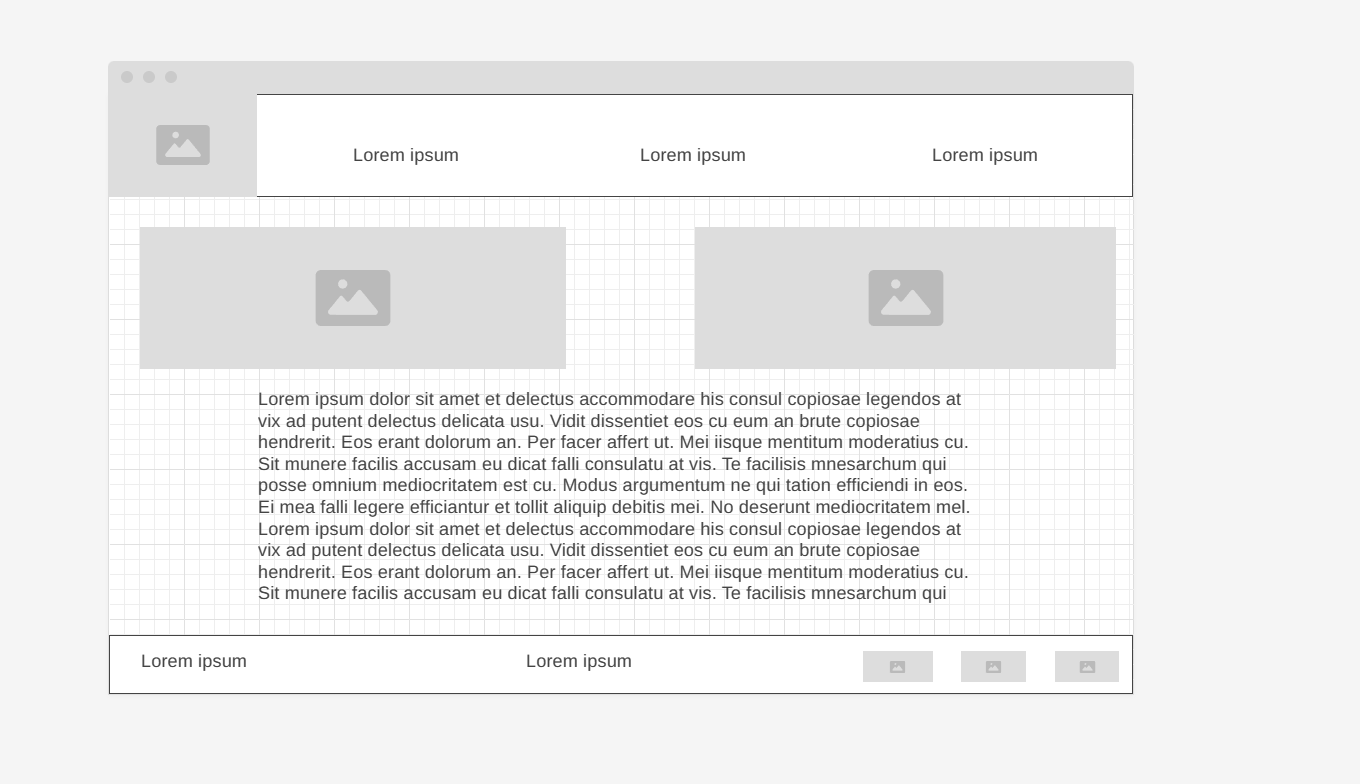
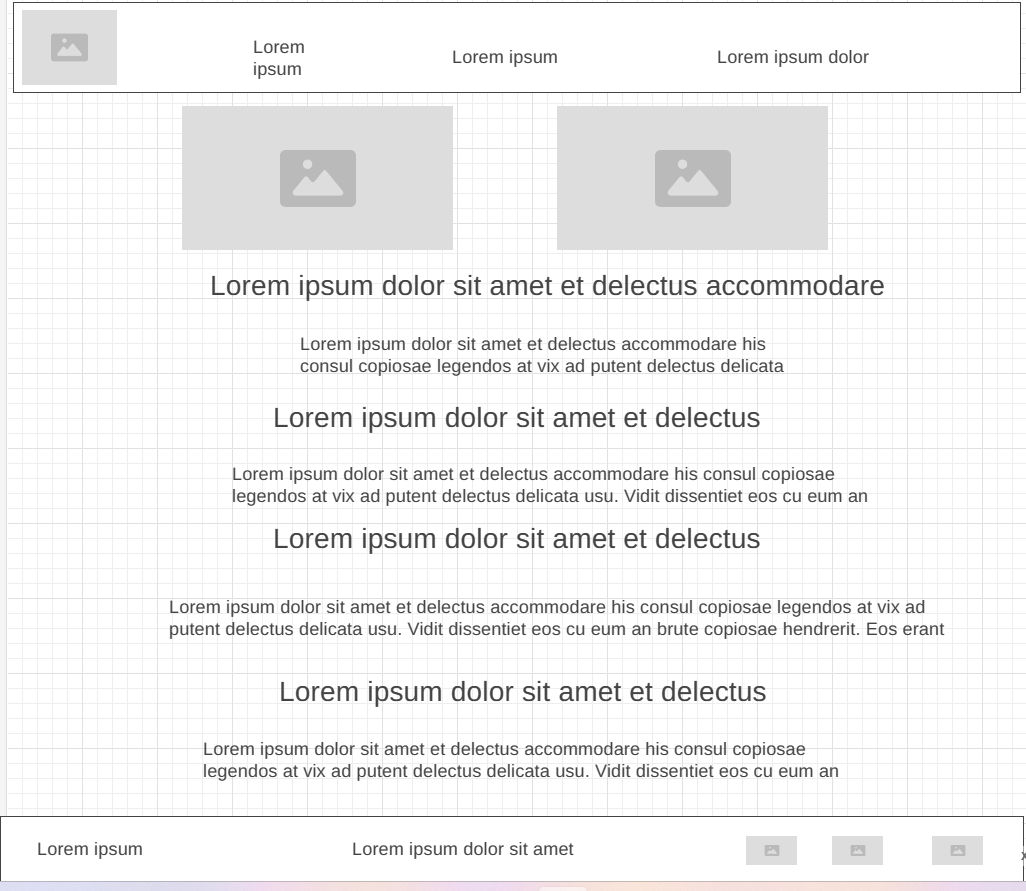
added css and changed wireframes

diff --git a/canning/styles/styles.css b/canning/styles/styles.css
@@ -17,16 +17,25 @@ nav a {
 nav {
     display: flex;
     justify-content: space-around;
-    overflow: hidden;
-    background-color: #EE7674;
+
 }
 #veggies-msg h1 {
     text-align: center;
 }
 main section{
     text-align: center;
+    width: 100%;
+}
+#h1{
+   font-size: 35px; 
+   font-family: "Shrikhand", "Arsenal","Figtree";
+
 }
 .home-grid {
+    display: grid;
+    grid-template-columns: repeat(10, 1fr);
+}
+.child-grid{
     display: grid;
     grid-template-columns: repeat(10, 1fr);
 }
@@ -38,6 +47,12 @@ main section{
 .text-child1{
     grid-row:2/7;
     grid-column: 2/8;
+    width: 100%;
+}
+.text2{
+    grid-column: 2/7;
+    grid-row: 5/10;
+    width: 100%;
 }
 body {
     background-color: #8E0428;
@@ -58,6 +73,7 @@ header {
     font-family: "Shrikhand", "Arsenal","Figtree";
     font-size: 2em;
     margin-top: 10px;
+    text-align: center;
 }
 nav a:hover {
     background-color: #F9F9ED;
@@ -110,42 +126,57 @@ footer .social img {
     z-index: -1;
     width: 100%;
 }
-#veggies-img{
-    grid-column: 1/7;
-    grid-row: 1/3;
-    width:100%;
-}
 #veggies-msg {
     grid-column: 2/3;
     grid-row: 1/2;
     margin-top: 175px;
     color:#F9F9ED
 }
-#close-up{
-    grid-row: 8/10;
-    grid-column: 4/8;
+
+#veggies-img{
+    grid-column: 1/7;
+    grid-row: 1/3;
     width:100%;
+}
+
+#close-up{
+    grid-row: 9/10;
+    grid-column: 4/7;
+    width:100%;
+}
+
+#jars{
+    grid-row: 8/10;
+    grid-column: 2/3;
+    width: 100%;
+
 }
 #bread{
     grid-row: 8/10;
     grid-column: 6/7;
     width: 100%;
     height: 468px;
-
 }
-#jars{
-    grid-row: 8/10;
+#hand-drawn{
     grid-column: 2/3;
-    width: 100%;
-   
+    grid-row: 2/4;
+    height: 100%;
 }
+#smile{
+    grid-column: 6/7;
+    grid-row: 2/4;
+    grid-row: 2/4;
+    width: 100%;
+    height: 100%;
+}
+
             
 
 
 
 
 @media screen and (max-width: 900px) {
-    #veggies, .home-grid {
+    #veggies, .home-grid, .child-grid {
         display: block;
         height: auto;
     }
@@ -168,15 +199,20 @@ footer .social img {
     .home-title {
         font-size: 25px;
     }
+    .text,.text-child1,.text2{
+        width: 100%;
+        margin: 125px;
+    }
     #background {
         display: none;
     }
-    .close-up {
-        width: 80%;
-        display: block;
-        margin: 0 auto;
+    #close-up,#jars,#bread,#hand-drawn,#smile{
+        width: 50px;
     }
+    }
+
     footer {
         margin-top: 25px;
     }
+   
 }

diff --git a/canning/delicious.html b/canning/delicious.html
@@ -10,7 +10,7 @@
     <div id="content">
     <header>
         <a href="index.html" id="logo_link">
-            <img class="logo" src="images/learn_to_can-logos_transparent.png" alt="learn to can logo">
+            <img class="logo" src="images/learn_to_can_logos_transparent.png" alt="learn to can logo">
         </a>
         <nav>
             <a href="index.html">Home</a>
@@ -20,7 +20,7 @@
     </header>
 <main class="child-grid">
     <section class="text-child1">
-        <h1>Unleash Your Inner Chef: Delicious Discoveries</h1>
+        <h1 id="h1">Unleash Your Inner Chef: Delicious Discoveries</h1>
         <p>Canning opens a treasure trove of possibilities, allowing you to create delicious and unique culinary delights. Our website features a vast collection of beginner-friendly recipes, covering a spectrum of flavors to tantalize your taste buds.</p>
         <h2>Classic Favorites:</h2>
         <p>Master the timeless recipes that never go out of style. Learn how to can peaches in syrup, perfect your homemade tomato sauce, or create the perfect batch of dill pickles. These fundamental recipes form the foundation of your canning repertoire.</p>
@@ -43,13 +43,13 @@
     <p><a href="site-plan.html">Site Plan></a></p>
     <div class="social">
         <a href="https://facebook.com" target="_blank">
-            <img src="IMAGES/facebook.png" alt="fb icon">
+            <img src="images/facebook.png" alt="fb icon">
         </a>
         <a href="https://twitter.com" target="_blank">
-            <img src="IMAGES/twitter.png" alt="twitter icon">
+            <img src="images/twitter.png" alt="twitter icon">
         </a>
         <a href="https://instagram.com" target="_blank">  
-            <img src="IMAGES/instagram.png" alt="instagram icon">
+            <img src="images/instagram.png" alt="instagram icon">
         </a>
     </div>
 </footer>

diff --git a/canning/beyond.html b/canning/beyond.html
@@ -10,7 +10,7 @@
     <div id="content">
     <header>
         <a href="index.html" id="logo_link">
-            <img class="logo" src="images/learn_to_can-logos_transparent.png" alt="learn to can logo">
+            <img class="logo" src="images/learn_to_can_logos_transparent.png" alt="learn to can logo">
         </a>
         <nav>
             <a href="index.html">Home</a>
@@ -19,8 +19,8 @@
         </nav>
     </header>
 <main class="child-grid">
-    <section>
-        <h1>Empowering Your Canning Journey</h1>
+    <section class = text2>
+        <h1 id="h1">Empowering Your Canning Journey</h1>
         <p>As you navigate your exciting canning journey, our website offers additional resources to enhance your experience and answer any questions you may have</p>
         <h2>Glossary of Terms:</h2>
         <p>Deepen your understanding of key terms used in canning, such as "headspace," "acidification," and "water bath canning." This glossary serves as a handy reference guide, clarifying any technical terms you encounter.</p>
@@ -48,13 +48,13 @@
     <p><a href="site-plan.html">Site Plan></a></p>
     <div class="social">
         <a href="https://facebook.com" target="_blank">
-            <img src="IMAGES/facebook.png" alt="fb icon">
+            <img src="images/facebook.png" alt="fb icon">
         </a>
         <a href="https://twitter.com" target="_blank">
-            <img src="IMAGES/twitter.png" alt="twitter icon">
+            <img src="images/twitter.png" alt="twitter icon">
         </a>
         <a href="https://instagram.com" target="_blank">  
-            <img src="IMAGES/instagram.png" alt="instagram icon">
+            <img src="images/instagram.png" alt="instagram icon">
         </a>
     </div>
 </footer>

diff --git a/canning/index.html b/canning/index.html
@@ -10,7 +10,7 @@
     <div id="content">
     <header>
         <a href="index.html" id="logo_link">
-            <img class="logo" src="images/learn_to_can-logos_transparent.png" alt="learn to can logo">
+            <img class="logo" src="images/learn_to_can_logos_transparent.png" alt="learn to can logo">
         </a>
         <nav>
             <a href="index.html">Home</a>
@@ -23,7 +23,7 @@
             <img id="veggies-img" src="images/veggies.jpg" alt="colorful veggies">
         </div>
         <section id="veggies-msg">
-            <h1 class="home-title">Welcome to Your Canning Adventure!</h1>
+            <h2 class="home-title">Welcome to Your Canning Adventure!</h1>
         </section>
     </div>
 <main class="home-grid">
